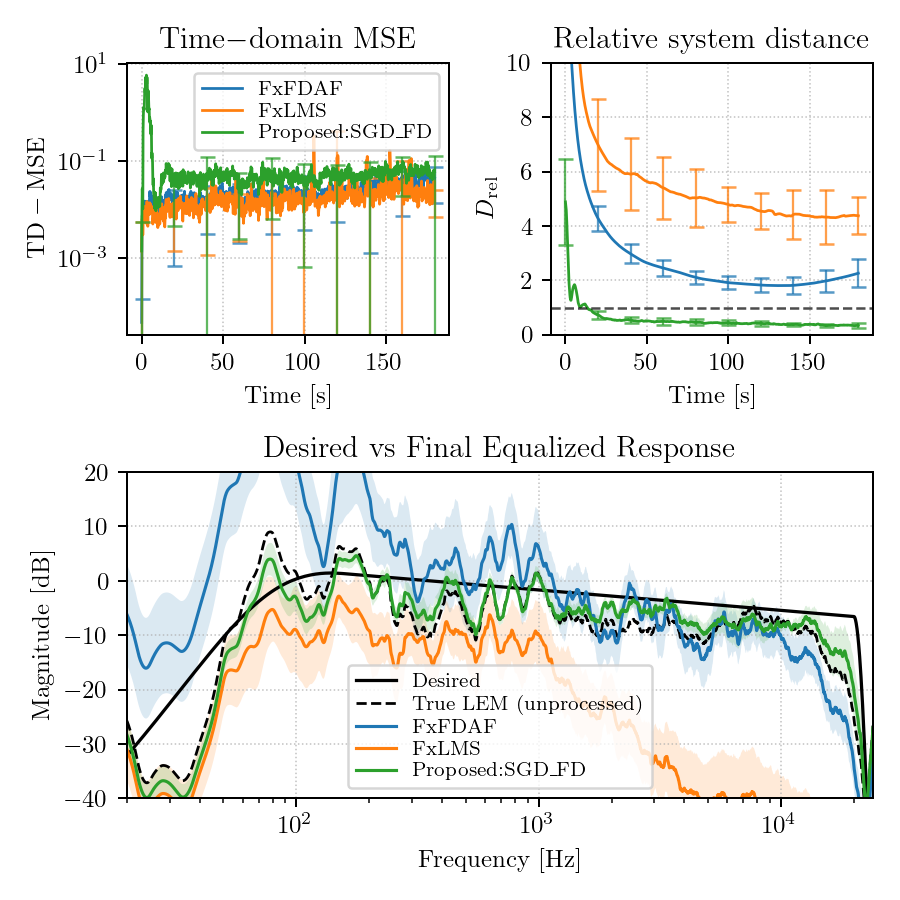
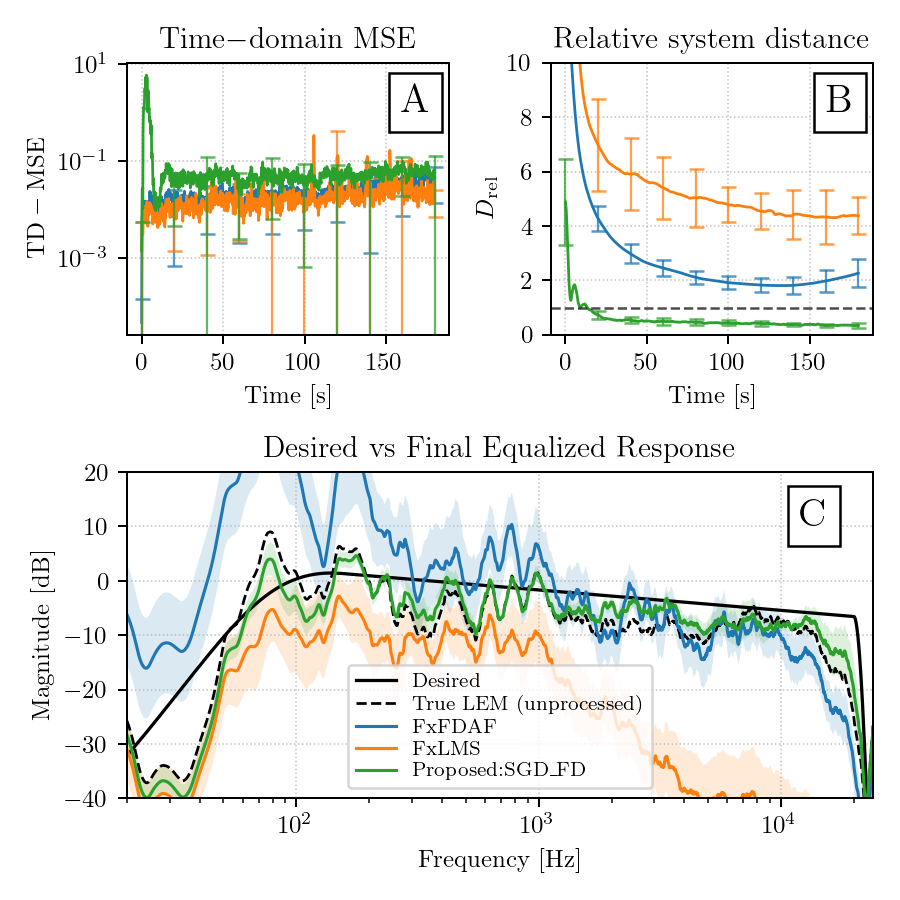
Add panel labeling to results plots for improved visualization

Changed region(s): [[0.1867, 0.0622, 0.4978, 0.1867], [0.9022, 0.0622, 0.9644, 0.1556], [0.8711, 0.5289, 0.9333, 0.6222]]

diff --git a/src/plot_experiment_05_results.py b/src/plot_experiment_05_results.py
@@ -217,6 +217,27 @@ def _display_algo_label(algo: str) -> str:
     return str(algo).replace("GHAM", "iHAM")
 
 
+def _add_panel_label(ax, label: str) -> None:
+    """Add a large panel label inside the bottom-left corner of an axes."""
+    ax.text(
+        0.94,
+        0.92,
+        label,
+        transform=ax.transAxes,
+        ha="right",
+        va="top",
+        fontsize=16,
+        fontweight="bold",
+        bbox={
+            "facecolor": "white",
+            "edgecolor": "black",
+            "linewidth": 1.0,
+            "boxstyle": "square,pad=0.3",
+        },
+        zorder=5,
+    )
+
+
 def plot_results(experiment_name: str, n_remove_highest_mean_curves: int = 0) -> None:
     _configure_text_rendering()
     cfg, data, results_root = load_results(experiment_name)
@@ -269,6 +290,11 @@ def plot_results(experiment_name: str, n_remove_highest_mean_curves: int = 0) ->
         axes[row, 1] = fig.add_subplot(gs[row, 1])
     ax_resp = fig.add_subplot(gs[n_rows, :])
 
+    # Panel labels for paper figure convention.
+    _add_panel_label(axes[0, 0], "A")
+    _add_panel_label(axes[0, 1], "B")
+    _add_panel_label(ax_resp, "C")
+
     for row, tt in enumerate(transition_times):
         ax_td = axes[row, 0]
         ax_val = axes[row, 1]
@@ -316,10 +342,6 @@ def plot_results(experiment_name: str, n_remove_highest_mean_curves: int = 0) ->
         ax_val.set_ylim(0.0, 10.0)
         ax_val.set_ylabel(r"$D_{\mathrm{rel}}$")
         ax_val.set_title(r"$\mathrm{Relative\ system\ distance}$")
-
-    handles, labels = axes[0, 0].get_legend_handles_labels()
-    if handles:
-        axes[0, 0].legend(handles, labels, loc="upper right", fontsize=8, labelspacing=0.2)
 
     # Bottom subplot: desired response, true LEM (unprocessed), and final equalized response.
     if target_example is not None and len(target_example.get("freq_axis", [])):
